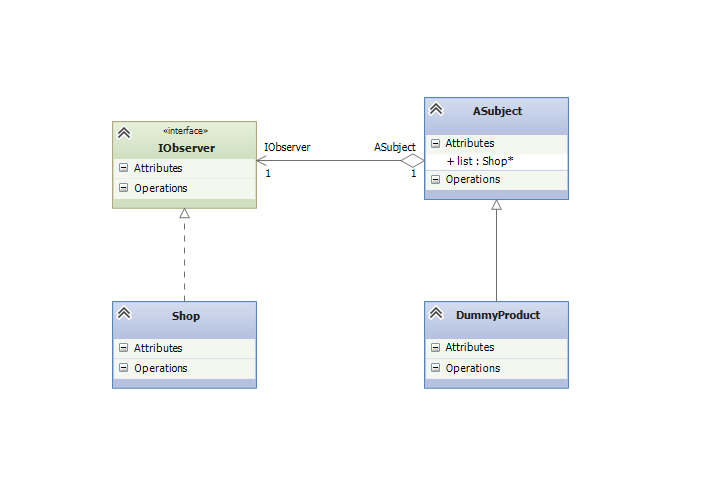
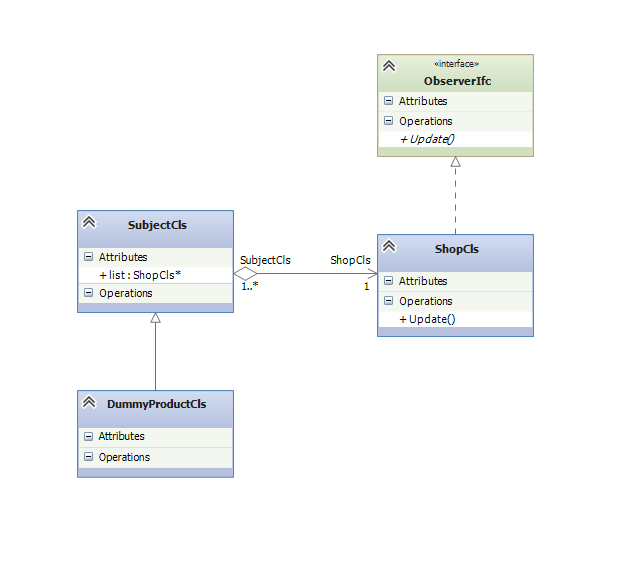
Observer-II rename

Changed region(s): [[0.121, 0.0881, 0.8774, 0.8512]]

diff --git a/Observer-II/src/SubjectCls.cpp b/Observer-II/src/SubjectCls.cpp
@@ -5,35 +5,35 @@
  *      Author: tr1d5042
  */
 
-#include "ASubject.h"
+#include <SubjectCls.h>
 #include <algorithm>
 
 using namespace std;
 
 namespace Observer {
 
-ASubject::ASubject() {
+SubjectCls::SubjectCls() {
 	// TODO Auto-generated constructor stub
 
 }
 
-ASubject::~ASubject() {
+SubjectCls::~SubjectCls() {
 	// TODO Auto-generated destructor stub
 }
 
-void ASubject::Attach(Shop *shop)
+void SubjectCls::Attach(ShopCls *shop)
 {
     list.push_back(shop);
 }
 
-void ASubject::Detach(Shop *shop)
+void SubjectCls::Detach(ShopCls *shop)
 {
     list.erase(std::remove(list.begin(), list.end(), shop), list.end());
 }
 
-void ASubject::Notify(float price)
+void SubjectCls::Notify(float price)
 {
-    for(vector<Shop*>::const_iterator iter = list.begin(); iter != list.end(); ++iter)
+    for(vector<ShopCls*>::const_iterator iter = list.begin(); iter != list.end(); ++iter)
     {
         if(*iter != 0)
         {

diff --git a/Observer-II/src/main.cpp b/Observer-II/src/main.cpp
@@ -6,21 +6,21 @@
  */
 
 #include <iostream>
-#include "ASubject.h"
-#include "DummyProduct.h"
-#include "Shop.h"
-#include "IObserver.h"
+#include "SubjectCls.h"
+#include "DummyProductCls.h"
+#include "ShopCls.h"
+#include "ObserverIfc.h"
 
 using namespace Observer;
 
 int main(int argc, char* argv[])
 {
-    DummyProduct product1;
+    DummyProductCls product1;
 
     // We have four shops wanting to keep updated price set by product owner
-    Shop shop1("Shop 1");
-    Shop shop2("Shop 2");
-    Shop shop3("Shop 3");
+    ShopCls shop1("Shop 1");
+    ShopCls shop2("Shop 2");
+    ShopCls shop3("Shop 3");
 
     product1.Attach(&shop1);
     product1.Attach(&shop2);

diff --git a/Observer-II/include/SubjectCls.h b/Observer-II/include/SubjectCls.h
@@ -9,23 +9,23 @@
 #define ASUBJECT_H_
 //#pragma once
 
+#include <ShopCls.h>
 #include <vector>
 #include <list>
-#include "Shop.h"
 
 namespace Observer {
 
-class ASubject {
+class SubjectCls {
 public:
-	ASubject();
-	virtual ~ASubject();
+	SubjectCls();
+	virtual ~SubjectCls();
 
 	//Lets keep a track of all the shops we have observing
-	std::vector<Shop*> list;
+	std::vector<ShopCls*> list;
 
 public:
-	void Attach(Shop *product);
-	void Detach(Shop *product);
+	void Attach(ShopCls *product);
+	void Detach(ShopCls *product);
 	void Notify(float price);
 };
 

diff --git a/Observer-II/src/DummyProductCls.cpp b/Observer-II/src/DummyProductCls.cpp
@@ -5,20 +5,20 @@
  *      Author: tr1d5042
  */
 
-#include "DummyProduct.h"
+#include <DummyProductCls.h>
 
 namespace Observer {
 
-DummyProduct::DummyProduct() {
+DummyProductCls::DummyProductCls() {
 	// TODO Auto-generated constructor stub
 
 }
 
-DummyProduct::~DummyProduct() {
+DummyProductCls::~DummyProductCls() {
 	// TODO Auto-generated destructor stub
 }
 
-void DummyProduct::ChangePrice(float price)
+void DummyProductCls::ChangePrice(float price)
 {
     Notify(price);
 }

diff --git a/Observer-II/src/ShopCls.cpp b/Observer-II/src/ShopCls.cpp
@@ -5,25 +5,25 @@
  *      Author: tr1d5042
  */
 
-#include "Shop.h"
+#include <ShopCls.h>
 
 namespace Observer {
 
-Shop::Shop() {
+ShopCls::ShopCls() {
 	// TODO Auto-generated constructor stub
 
 }
 
-Shop::~Shop() {
+ShopCls::~ShopCls() {
 	// TODO Auto-generated destructor stub
 }
 
-Shop::Shop(std::string name)
+ShopCls::ShopCls(std::string name)
 {
     this->name = name;
 }
 
-void Shop::Update(float price)
+void ShopCls::Update(float price)
 {
     this->price = price;
 

diff --git a/Observer-II/include/ShopCls.h b/Observer-II/include/ShopCls.h
@@ -9,22 +9,22 @@
 #define SHOP_H_
 //#pragma once
 
+#include <ObserverIfc.h>
 #include <iostream>
 #include <string>
-#include "IObserver.h"
 
 namespace Observer {
 
-class Shop : IObserver{
+class ShopCls : ObserverIfc{
 public:
-	Shop();
-	virtual ~Shop();
+	ShopCls();
+	virtual ~ShopCls();
 
 	//Name of the Shop
 	std::string name;
 	float price;
 public:
-	Shop(std::string n);
+	ShopCls(std::string n);
 	void Update(float price);
 };
 

diff --git a/Observer-II/include/DummyProductCls.h b/Observer-II/include/DummyProductCls.h
@@ -9,14 +9,14 @@
 #define DUMMYPRODUCT_H_
 //#pragma once
 
-#include "ASubject.h"
+#include <SubjectCls.h>
 
 namespace Observer {
 
-class DummyProduct: public ASubject{
+class DummyProductCls: public SubjectCls{
 public:
-	DummyProduct();
-	virtual ~DummyProduct();
+	DummyProductCls();
+	virtual ~DummyProductCls();
 public:
     void ChangePrice(float price);
 };

diff --git a/Observer-II/include/ObserverIfc.h b/Observer-II/include/ObserverIfc.h
@@ -9,7 +9,7 @@
 #define IOBSERVER_H_
 //#pragma once
 
-class IObserver
+class ObserverIfc
 {
 public:
     virtual void Update(float price) = 0;
